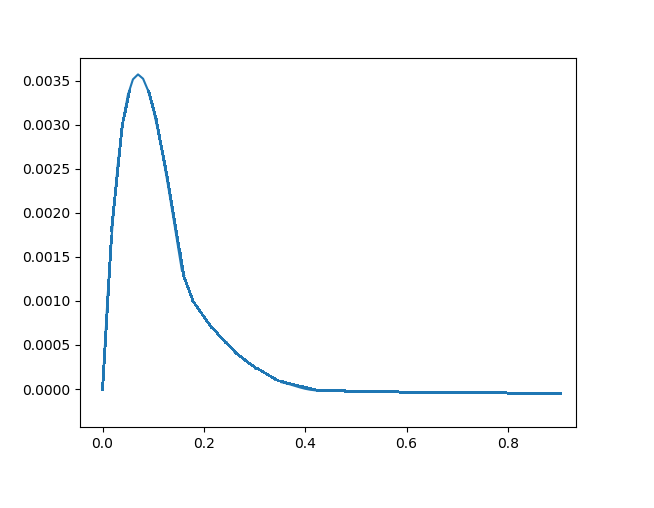
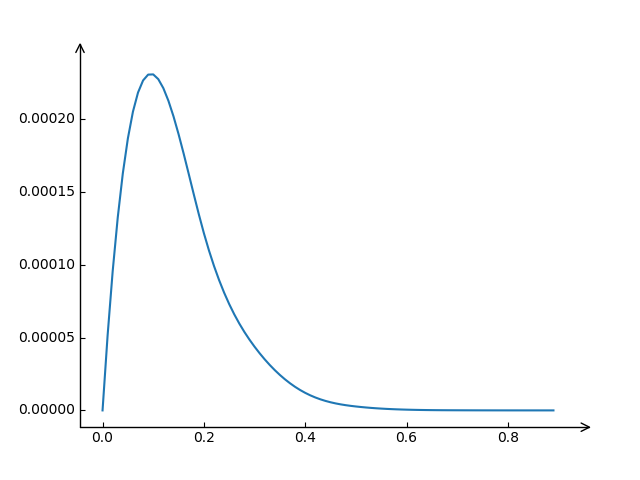
Update style of the plots

diff --git a/course/main.py b/course/main.py
@@ -5,15 +5,16 @@ import functools
 import numpy as np
 import matplotlib.pyplot as plt
 from scipy import interpolate
+import mpl_toolkits.axisartist as AA
 
 
-lamb_positive = [[2, 3]]   # интенсивность входного потока положительных заявок
-lamb_negative = [[3, 4]]   # интенсивность входного потока отрицательных заявок
-p_positive = [[1, 0.3], [1, 0.3], [1, 0.6]]  # вероятность перехода положительных заявок
-p_negative = [[0.4, 1], [0.4, 0.1], [1, 1]]  # вероятность перехода отрицательных заявок
-mu = [2, 2]                # интенсивность обслуживания заявок
+lamb_positive = [[3, 4]]   # интенсивность входного потока положительных заявок
+lamb_negative = [[1, 0.02]]   # интенсивность входного потока отрицательных заявок
+p_positive = [[0.3, 0.22], [0.144, 0.98], [0.176, 0.6]]  # вероятность перехода положительных заявок
+p_negative = [[1, 0.1], [0.4, 0.654], [0.45, 0.54]]  # вероятность перехода отрицательных заявок
+mu = [5, 5]                # интенсивность обслуживания заявок
 
-alp = [1, 1]               # начальное состояние сети
+alp = [2, 4]               # начальное состояние сети
 
 # lamb_positive = [[2]]
 # lamb_negative = [[3]]
@@ -121,11 +122,17 @@ def R(i):
 
 
 def display_plot(t, s):
-    # plt.plot(t, s)
+    fig = plt.figure(1)
+    ax = AA.Subplot(fig, 1, 1, 1)
+    fig.add_subplot(ax)
+
+    ax.axis["top", "right"].set_visible(False)
+    ax.axis["bottom"].set_axisline_style("->", size=1.5)
+    ax.axis["left"].set_axisline_style("->", size=1.5)
 
     f = interpolate.interp1d(t, s, kind='cubic')
     x_interp = np.arange(min(t), max(t), 0.01)
-    plt.plot(x_interp, f(x_interp))
+    ax.plot(x_interp, f(x_interp))
     plt.show()
 
 
